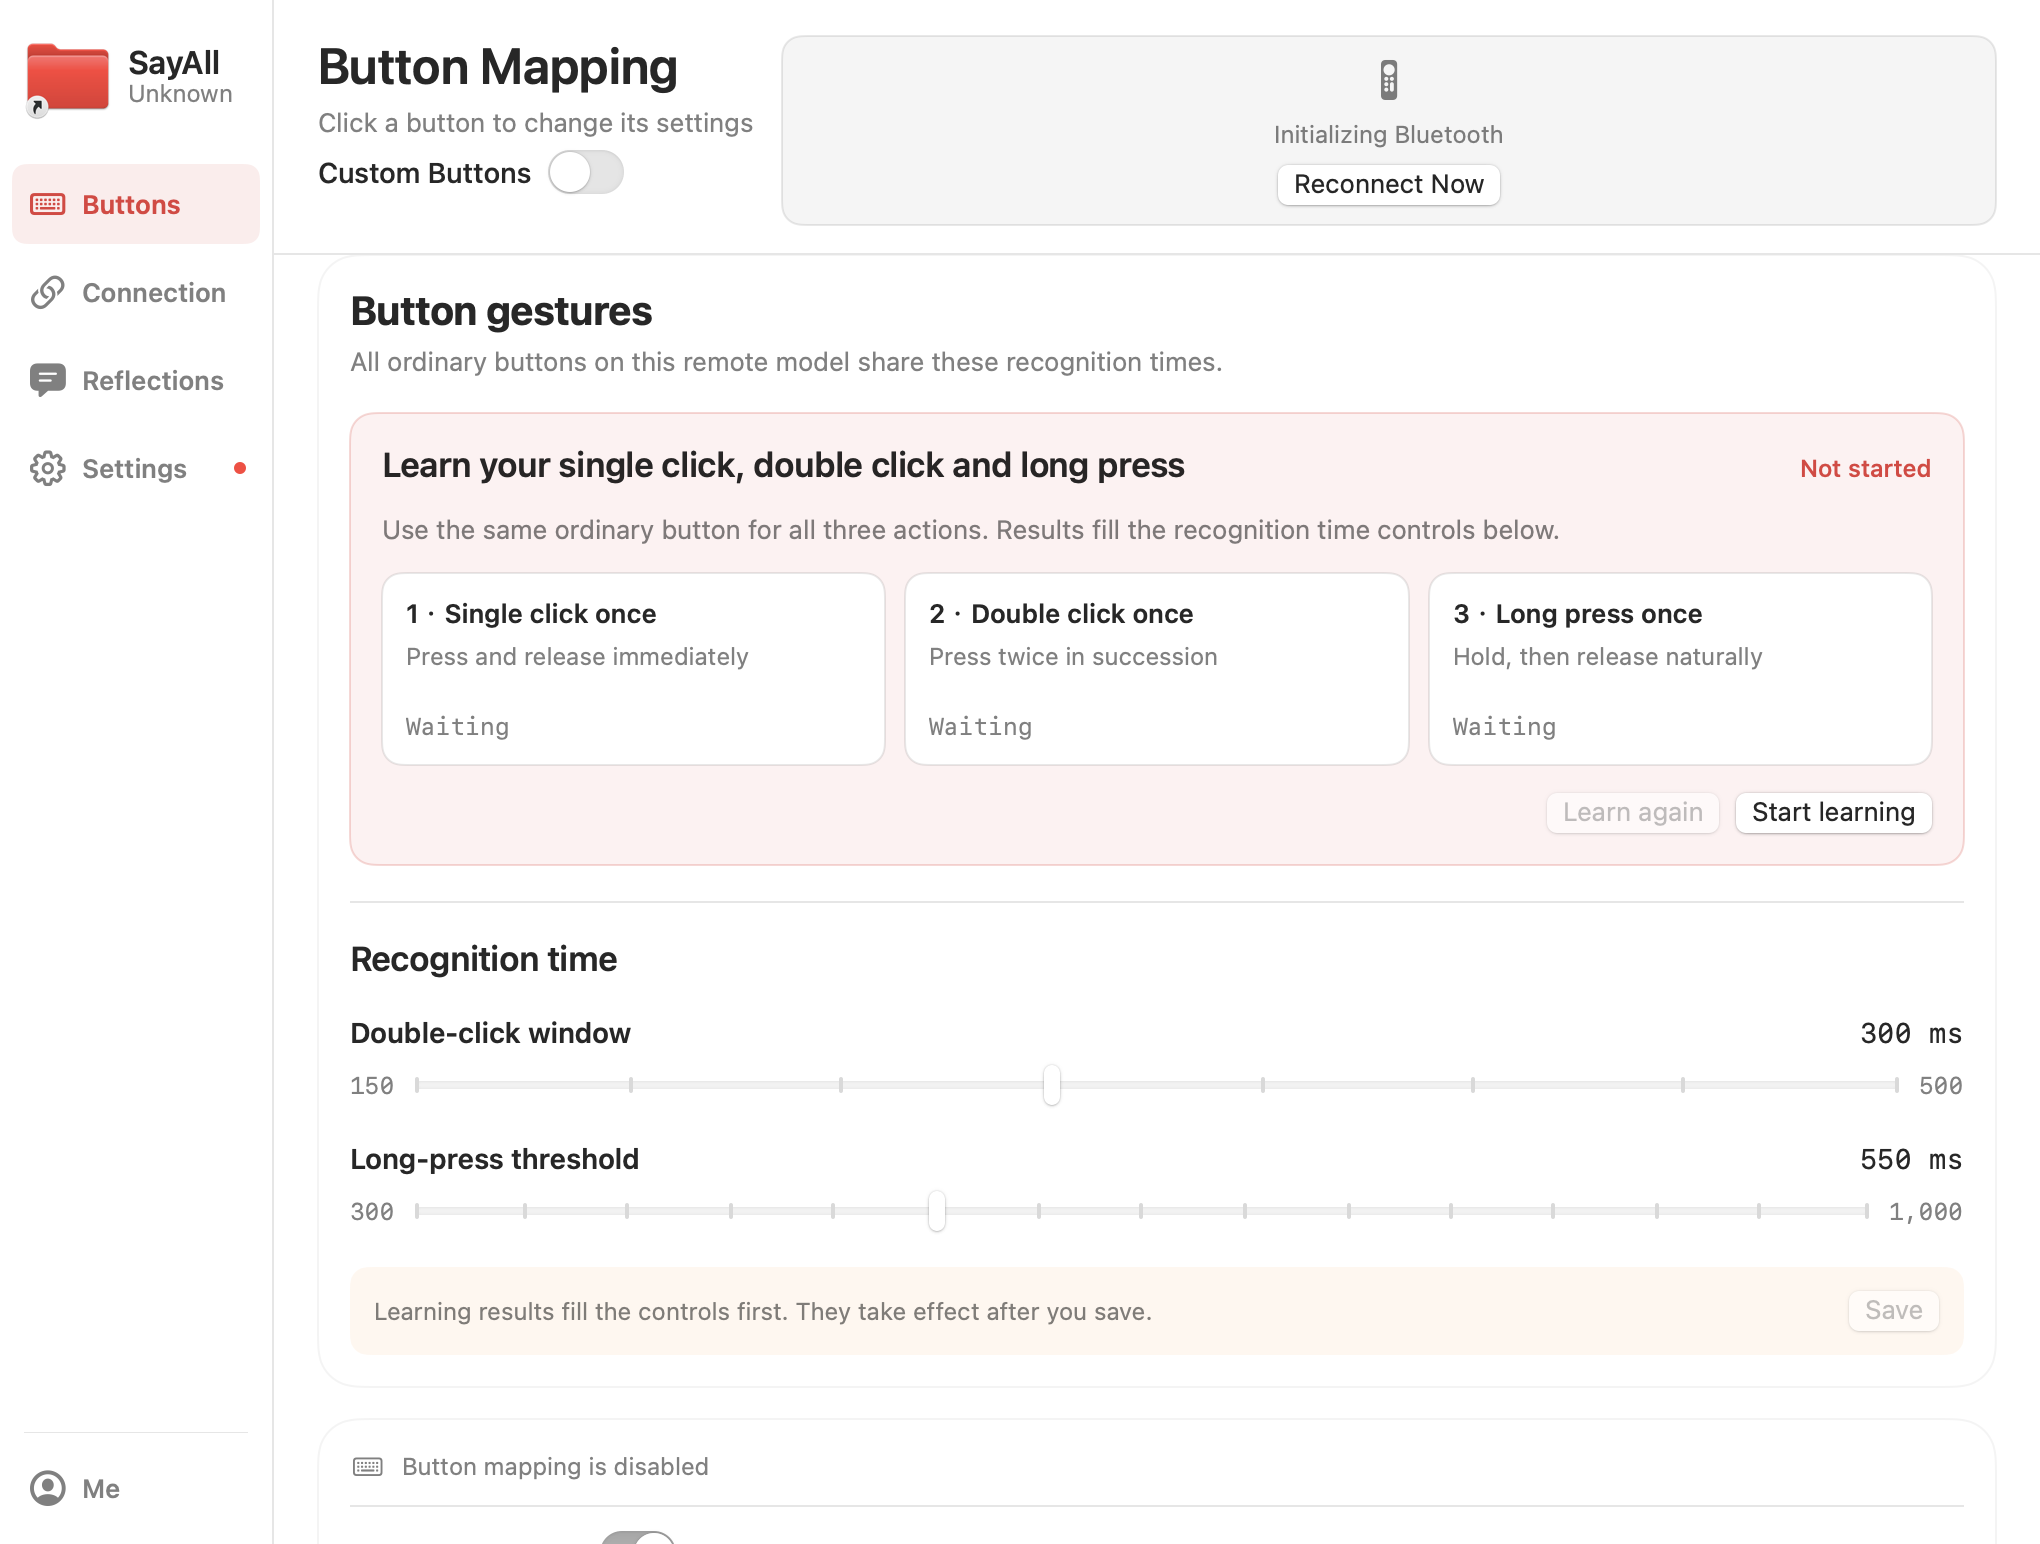
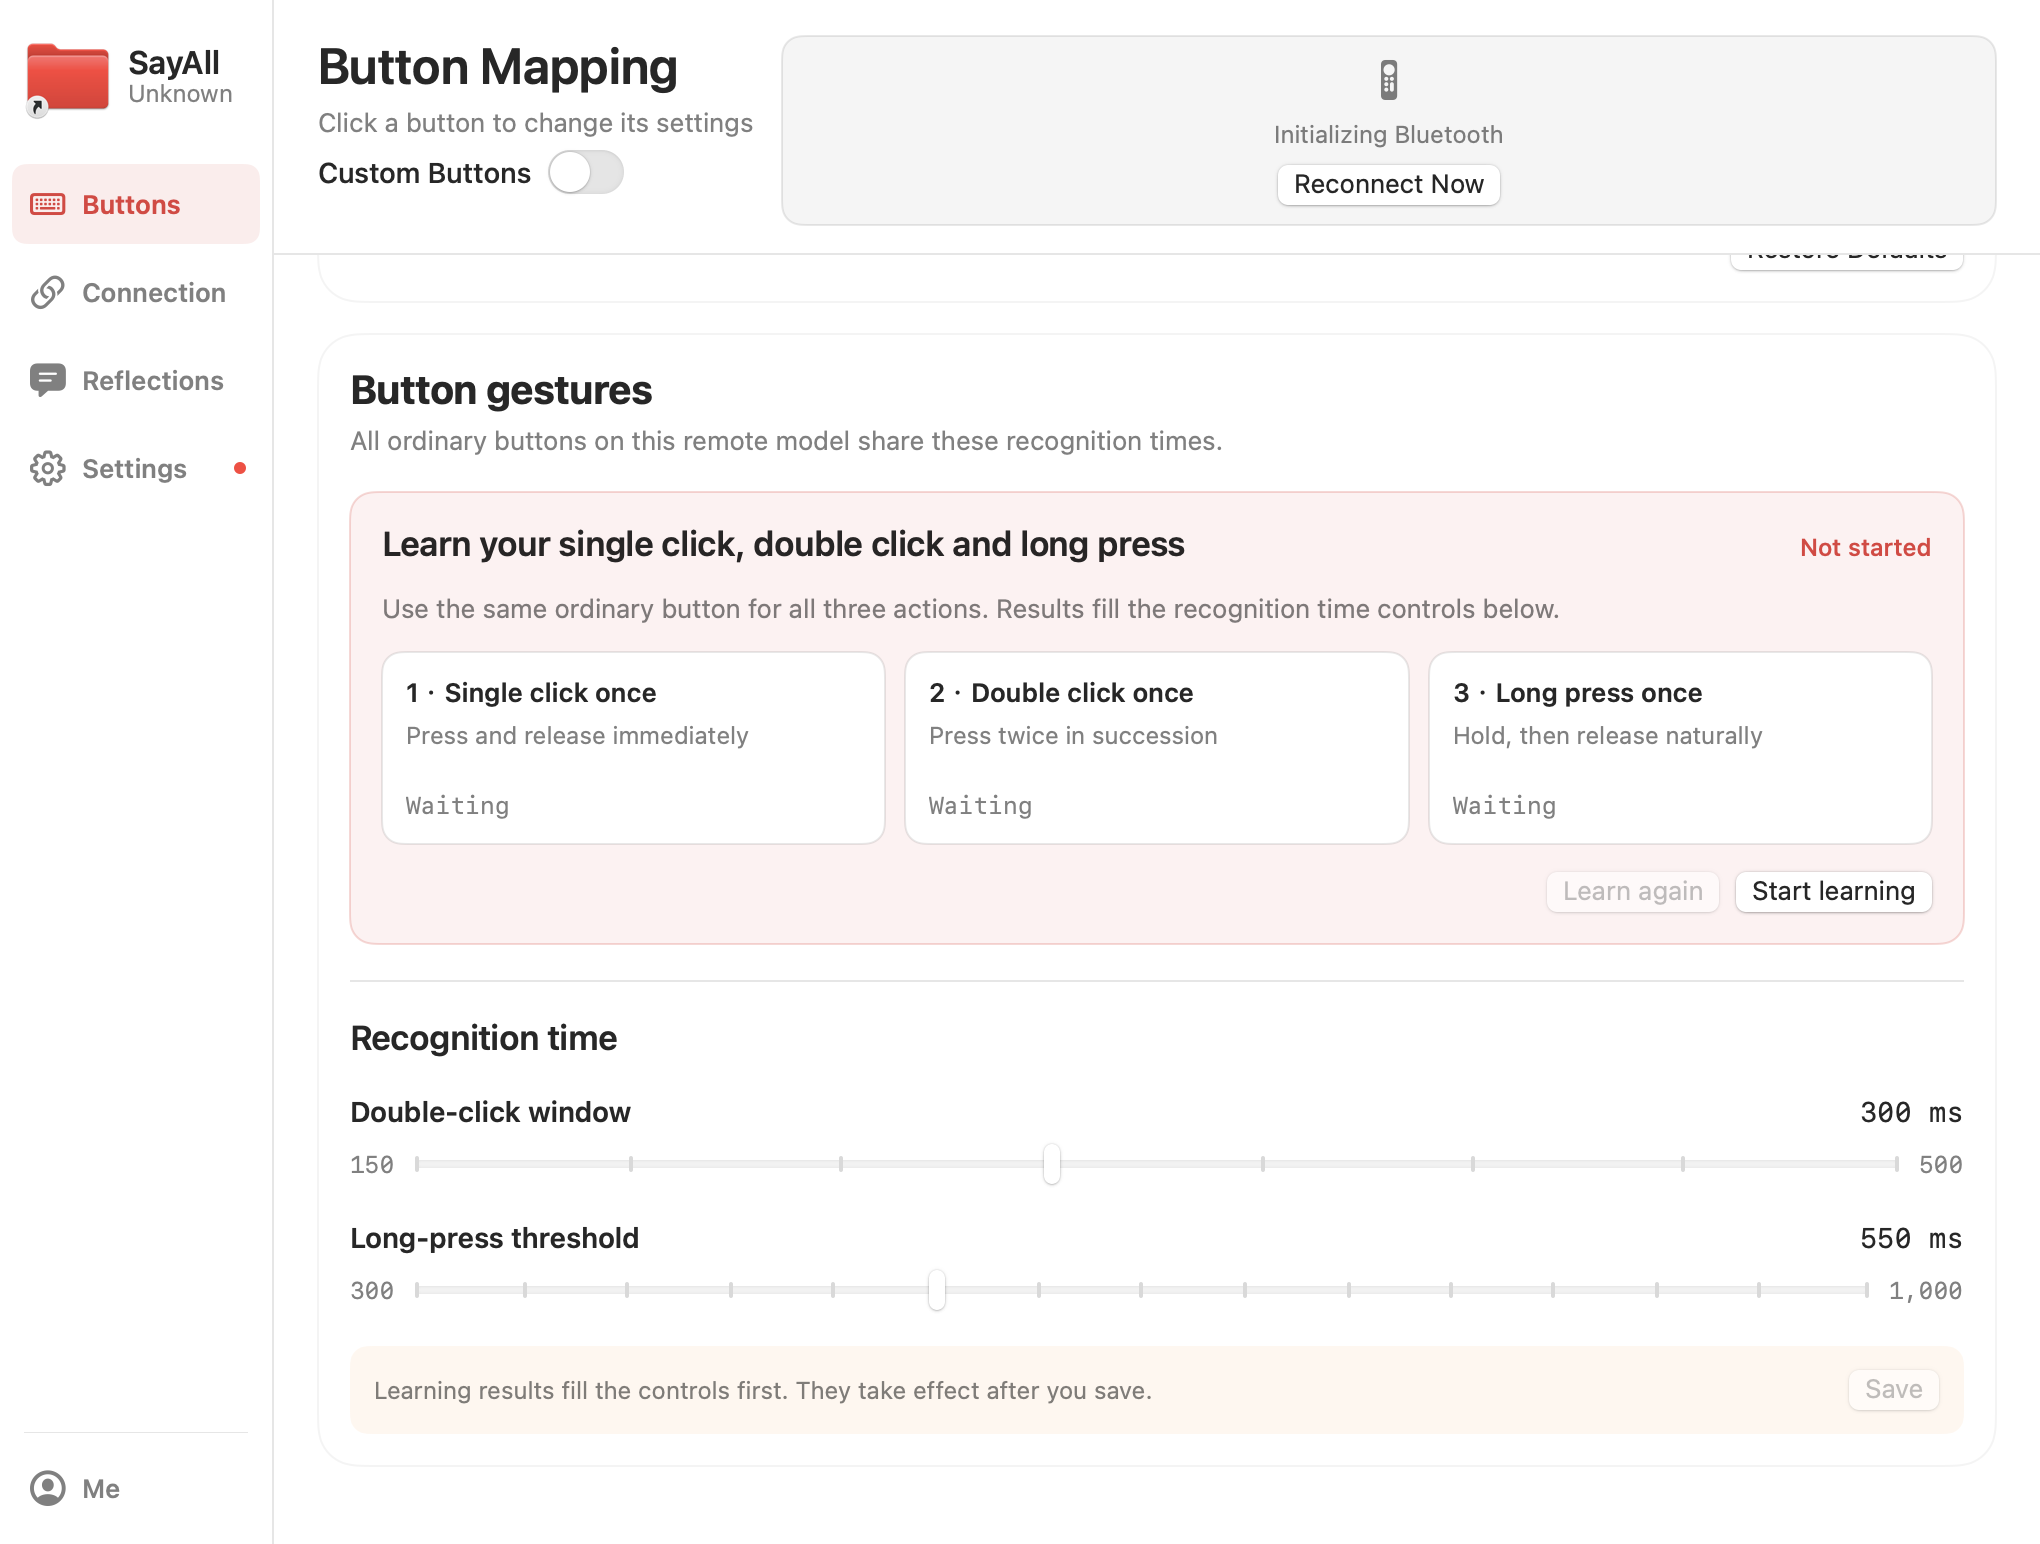
fix: move gesture settings to bottom of button page

diff --git a/Sources/RemoteMic/SettingsView.swift b/Sources/RemoteMic/SettingsView.swift
@@ -2025,8 +2025,9 @@ struct SettingsView: View {
                             }
                             #endif
 
-                            mappingGestureTimingSection
                             mappingFooter(includeSiriScrollArrow: includeSiriScrollArrow)
+                                .id("mapping-footer")
+                            mappingGestureTimingSection
                             Color.clear.frame(height: 1).id("mapping-page-bottom")
                         }
                         .padding(22)
@@ -2072,7 +2073,7 @@ struct SettingsView: View {
                 }
                 .onChange(of: mappingVoiceSettingsRequest) { _ in
                     withAnimation(.easeInOut(duration: 0.25)) {
-                        proxy.scrollTo("mapping-page-bottom", anchor: .bottom)
+                        proxy.scrollTo("mapping-footer", anchor: .bottom)
                     }
                 }
                 .onChange(of: model.buttonGestureLearningResult) { result in
